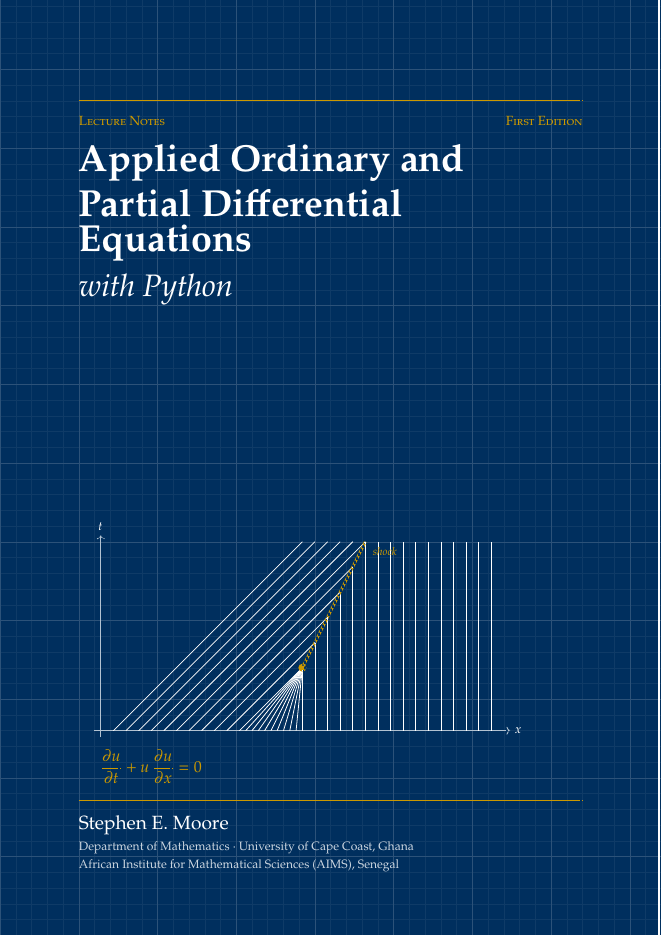
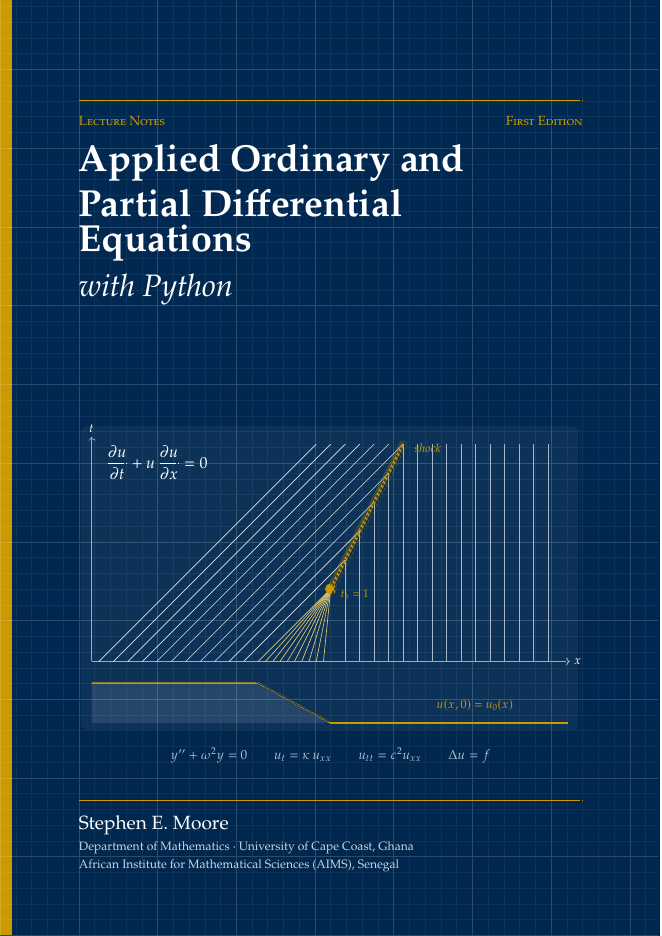
New cover design and repository renamed to applied-ode-pde-with-python
Update all links in the book, README, CITATION.cff and LICENSE-BOOK.md
to the new repository name; rebuild the PDF with the redesigned cover.

diff --git a/README.md b/README.md
@@ -74,8 +74,8 @@ You need Python 3 with NumPy, SciPy, SymPy and Matplotlib.
 - **With pip:**
 
 ```bash
-git clone https://github.com/moorekwesi/AIMS---ODE-and-PDE.git
-cd AIMS---ODE-and-PDE
+git clone https://github.com/moorekwesi/applied-ode-pde-with-python.git
+cd applied-ode-pde-with-python
 pip install -r requirements.txt
 ```
 
@@ -107,7 +107,7 @@ python run_all.py ch10     # only Chapter 10
 
 > S. E. Moore, *Applied Ordinary and Partial Differential Equations with Python*, 1st ed.,
 > Department of Mathematics, University of Cape Coast, Ghana, 2026.
-> Available at https://github.com/moorekwesi/AIMS---ODE-and-PDE
+> Available at https://github.com/moorekwesi/applied-ode-pde-with-python
 
 A machine-readable citation is in [CITATION.cff](CITATION.cff).
 
@@ -128,4 +128,4 @@ credit to the author.
 Website: [https://moorestephen.info/](https://moorestephen.info/)
 
 Corrections and suggestions are welcome: please open an
-[issue](https://github.com/moorekwesi/AIMS---ODE-and-PDE/issues).
+[issue](https://github.com/moorekwesi/applied-ode-pde-with-python/issues).

diff --git a/LICENSE-BOOK.md b/LICENSE-BOOK.md
@@ -36,7 +36,7 @@ permission is required.
 ## Suggested attribution
 
 > S. E. Moore, *Applied Ordinary and Partial Differential Equations with Python*, 1st ed.,
-> University of Cape Coast, 2026. https://github.com/moorekwesi/AIMS---ODE-and-PDE.
+> University of Cape Coast, 2026. https://github.com/moorekwesi/applied-ode-pde-with-python.
 > Licensed under CC BY 4.0.
 
 The Python programs in this repository (`code/` and `run_all.py`) are licensed separately under
